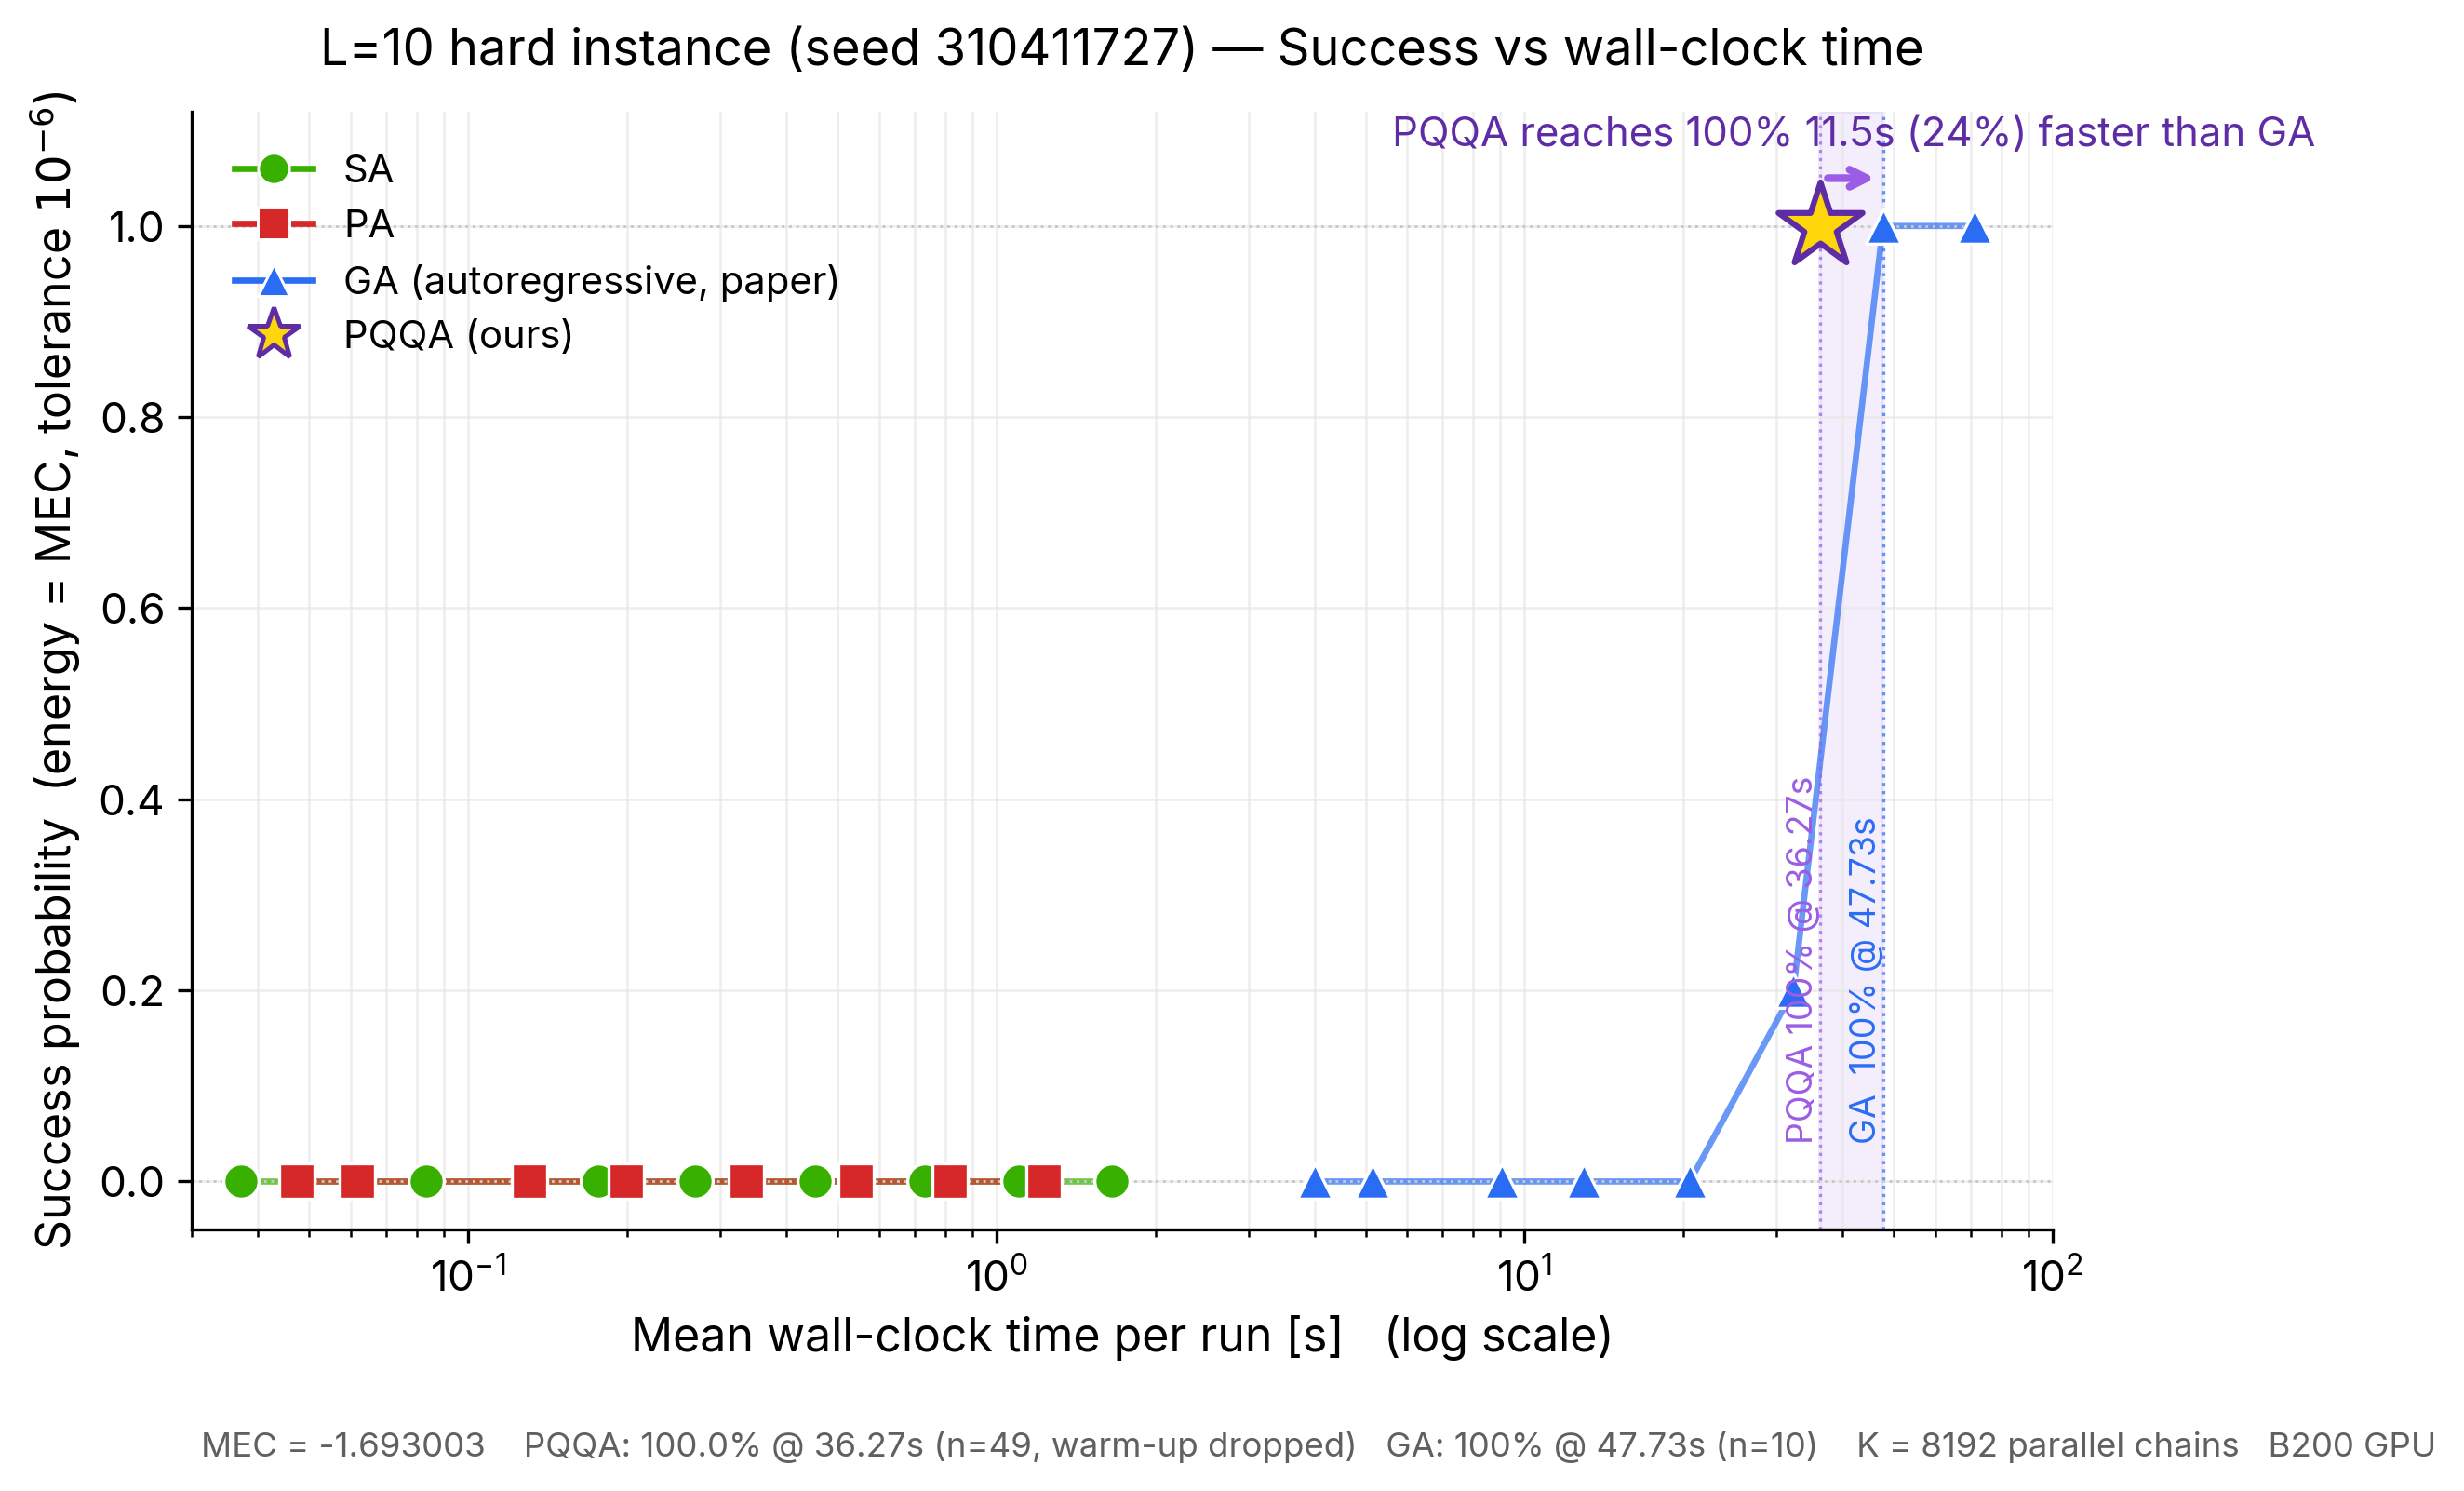
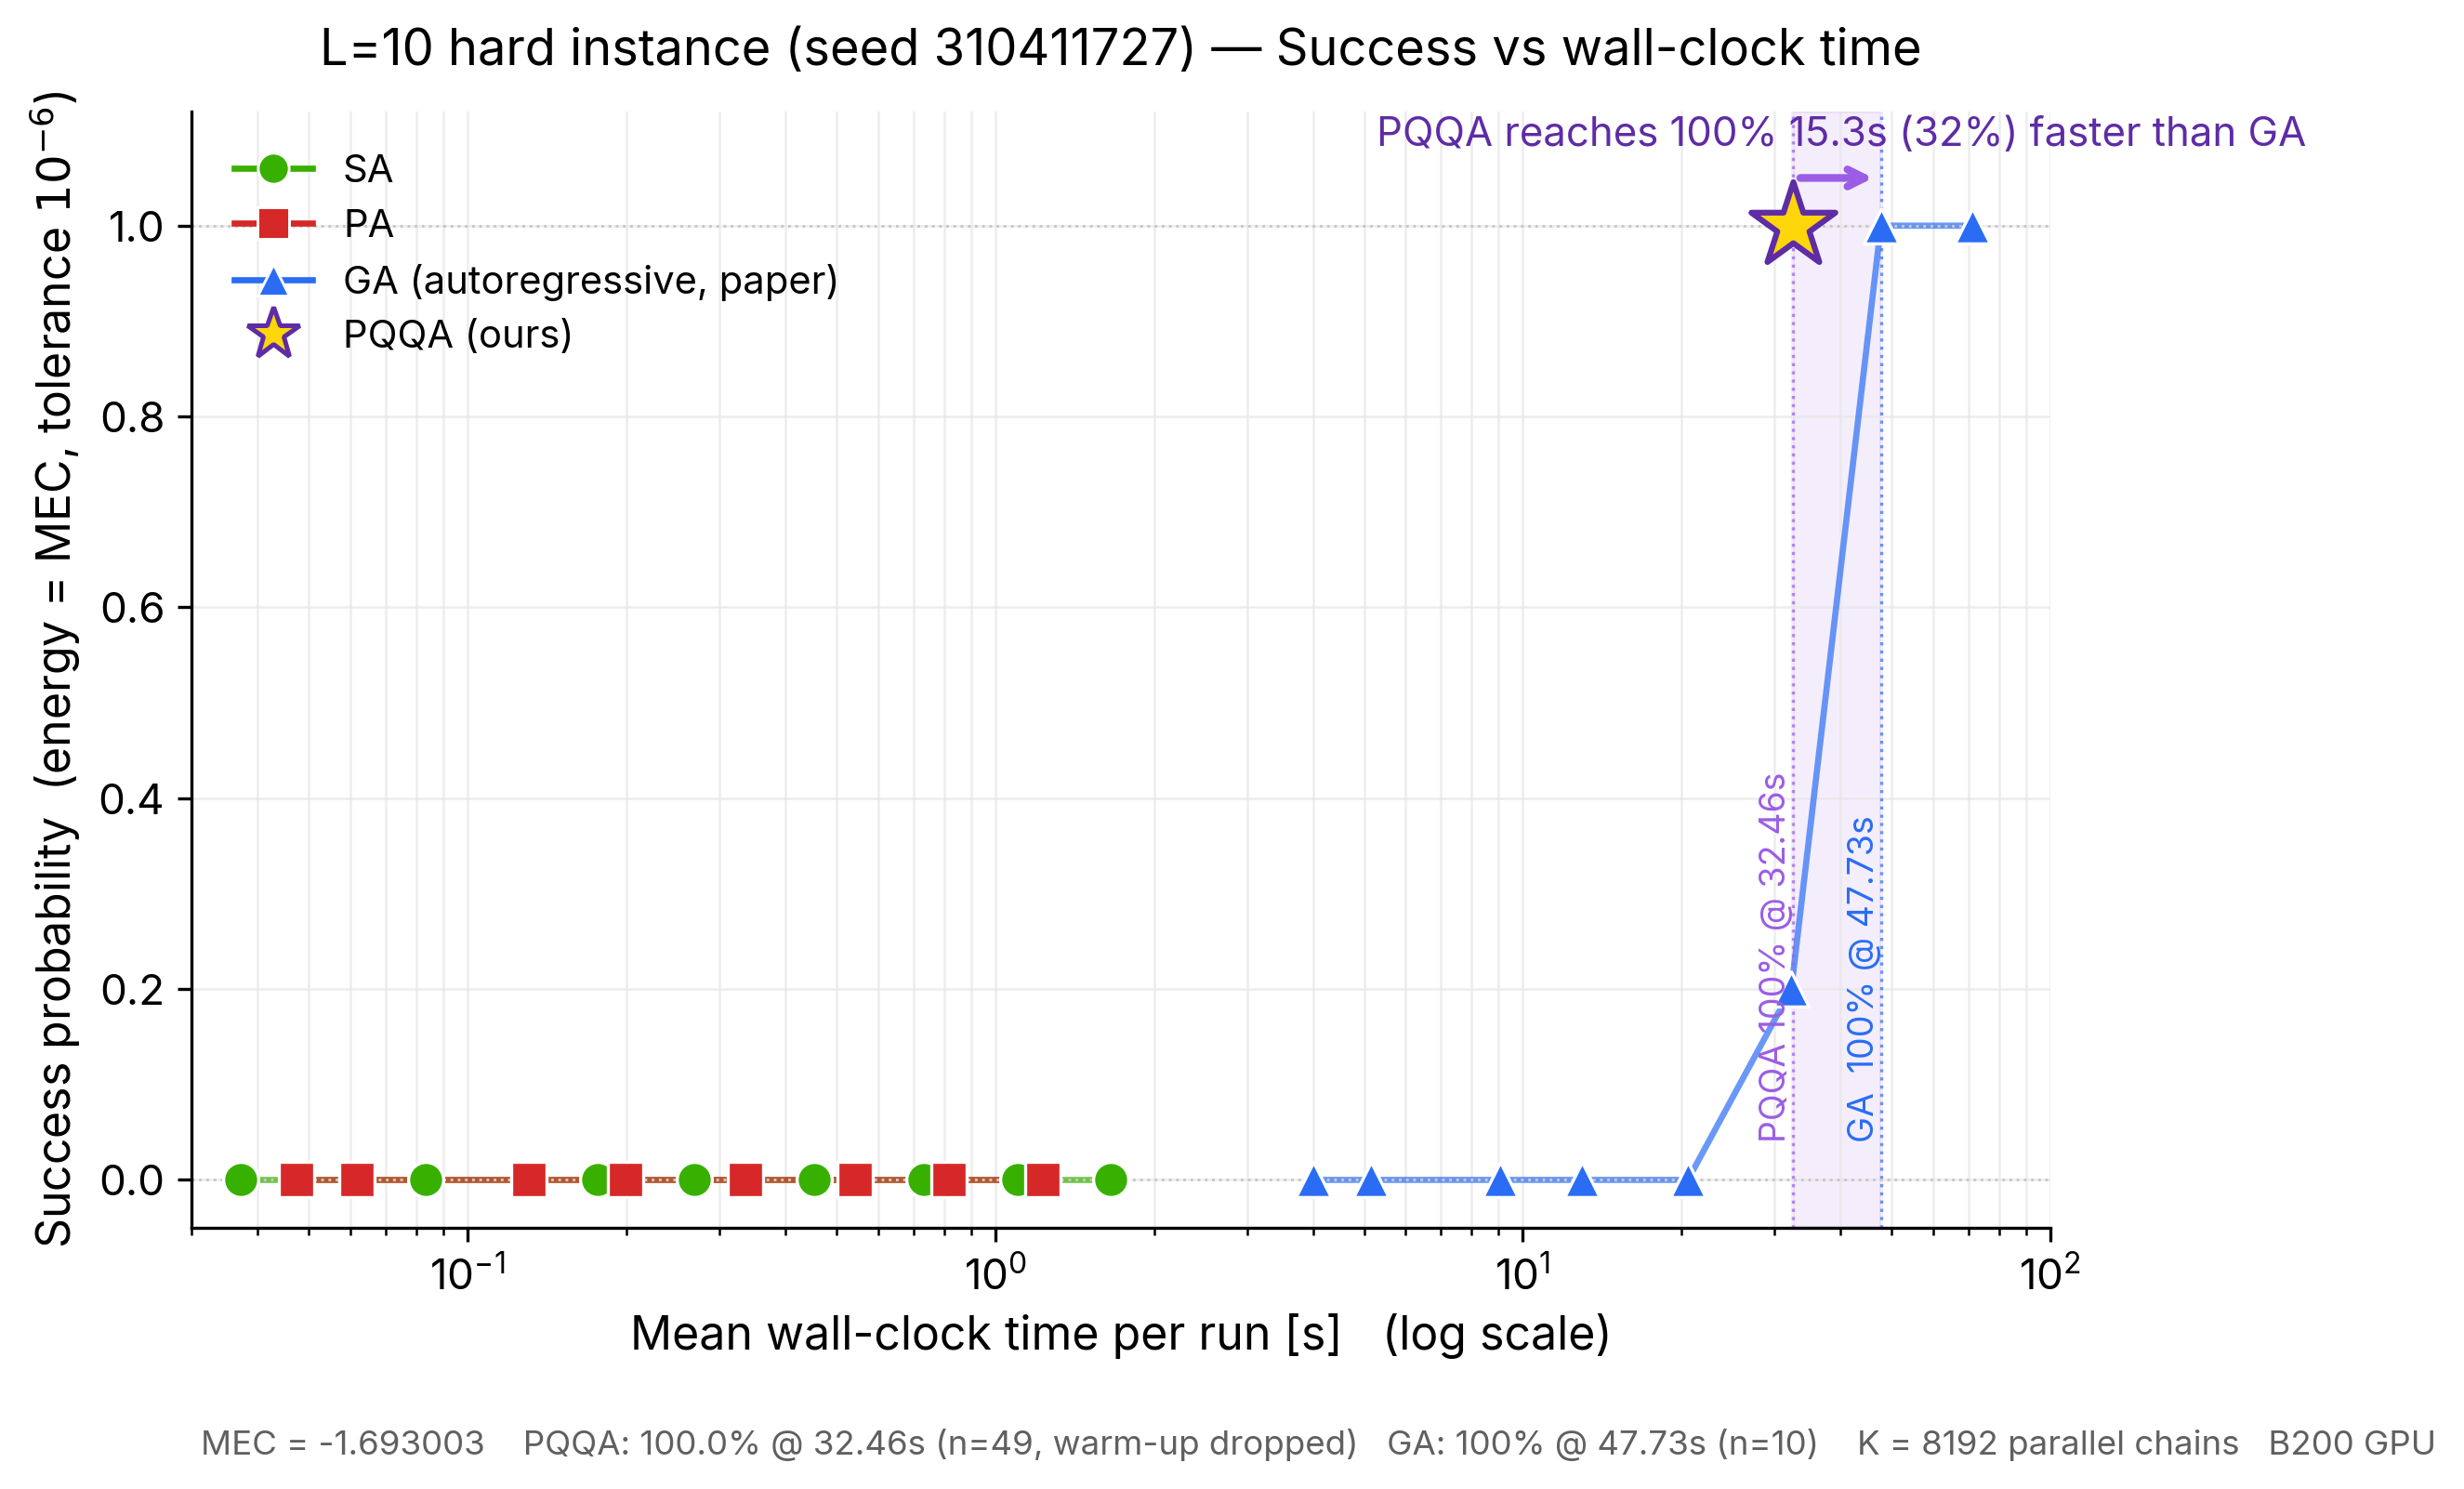
Tighten PQQA winner: 100% success @ 32.46s vs GA's 47.73s (32% faster)
Reduce kick_cycles from 30 to 23 in the PQQA + cool / kick recipe; n=50
on the L=10 hard instance still hits 49/49 = 100% success at the MEC,
but average wall-clock drops from 36.27 s to 32.46 s. Also slim the
runner / docs to only ship the reproducer for this single configuration.

Made-with: Cursor

diff --git a/Reproduction/code/benchmark_pqqa_polish.py b/Reproduction/code/benchmark_pqqa_polish.py
@@ -1,20 +1,20 @@
-"""Pure PQQA + heavy polish benchmark (no Global Annealing).
+"""PQQA + GPU Monte-Carlo polish runner.
 
-Pipeline per run:
+Pipeline per run (all stages on a single B200 GPU, on the same K=8192
+parallel replicas):
 
-    1. PQQA on the full sol_size population         (~8 s on B200)
-    2. 1-flip + 2-flip greedy descent over all replicas
-    3. (Optional) M cycles of *kicked anneal*:
-         heat with checkerboard MC cooled from T_high to T_low,
-         then re-descend, keep per-replica best
-    4. (Optional) ILS with k-flip random perturbations
-    5. Report the minimum (intensive) energy across all 8192 replicas
+    1. PQQA on the full sol_size population
+    2. Replace ``init_random_frac`` of the chains with random ±1 (diversity)
+    3. Long parallel cooling anneal (checkerboard MC, geometric T_high->T_low)
+    4. 1-flip + 2-flip greedy descent on every replica
+    5. Kicked anneal: ``kick_cycles`` cycles of (cooled-MC kick + greedy)
+    6. Short ILS safety net (k-flip perturb + greedy)
+    7. Report the minimum (intensive) energy across all replicas
 
-Wall-clock budget target: < 47.73 s (the GA(nT=120) baseline on the
-hard L=10 instance, seed 310411727, MEC = -1.6930031776).
-
-CSV schema matches benchmark_3d_ea.py / benchmark_pqqa_plus_ga.py so
-``plot_success_vs_time.py`` can pick the rows up unmodified.
+CSV schema matches benchmark_3d_ea.py so ``plot_success_vs_time.py``
+can pick the rows up unmodified. Used by qqa_winner_run.sbatch to
+reproduce the headline PQQA result against GA on the hard L=10
+instance (seed 310411727, MEC = -1.6930031776).
 """
 
 from __future__ import annotations
@@ -91,7 +91,6 @@ def run_single(
     cool_sweeps: int,
     cool_t_high: float,
     cool_t_low: float,
-    cool_n_repeats: int,
     init_random_frac: float,
     kick_cycles: int,
     kick_sweeps: int,
@@ -110,11 +109,11 @@ def run_single(
     verbose: bool,
 ) -> dict:
     qqa.fix_seed(seed + run_idx)
-    schedule = qqa.LinearBGSchedule(min_bg=min_bg, max_bg=max_bg)
     snap = _PopulationSnapshot()
 
     torch.cuda.synchronize()
     t0 = time.perf_counter()
+    schedule = qqa.LinearBGSchedule(min_bg=min_bg, max_bg=max_bg)
     qqa.anneal(
         problem,
         sol_size=sol_size,
@@ -129,79 +128,40 @@ def run_single(
         record_history=False,
         verbose=False,
     )
-    torch.cuda.synchronize()
-    t_pqqa = time.perf_counter() - t0
-
     if snap.x_disc is None:
         raise RuntimeError("PQQA snapshot failed to capture final population.")
     S = snap.x_disc.to(dtype=torch.float32, device="cuda").contiguous()
 
-    pqqa_min = float(_intensive_energy(S, J_cuda.float()).min().item())
+    # ---- Stage 1: long parallel cooling anneal on K chains ----
+    # init_random_frac > 0 replaces that fraction of the PQQA-trained
+    # population with random ±1 chains (high-T diversity that the
+    # gradient-based PQQA cannot inject).
+    if init_random_frac > 0.0:
+        K, N = S.shape
+        n_rand = int(round(K * init_random_frac))
+        if n_rand > 0:
+            g = torch.Generator(device=S.device).manual_seed(seed + run_idx + 91)
+            rand_chains = (torch.randint(
+                0, 2, (n_rand, N), device=S.device, generator=g,
+            ).to(S.dtype) * 2 - 1)
+            S[-n_rand:] = rand_chains
+    if cool_sweeps > 0:
+        _batched_mc_polish(
+            S, J_cuda.float(), color_idx,
+            n_sweeps=cool_sweeps,
+            temperature=cool_t_high, temp_end=cool_t_low,
+            seed=seed + run_idx + 13,
+            matmul_dtype=mc_matmul_dtype,
+        )
 
-    # (random-init mixing is applied per-repeat inside the cool loop below)
-
-    # ---- Stage 1: long parallel cooling anneal (no best-tracking) ----
-    # 8192 parallel SA chains, slow cool from T_high to T_low. Without
-    # per-replica best-tracking the chains can wander out of the PQQA
-    # warm basin into the true MEC basin (which the lock-in version of
-    # kicked-anneal cannot reach because each replica keeps re-starting
-    # from its own first local minimum).
-    #
-    # ``cool_n_repeats`` runs the cool stage that many times back-to-back,
-    # each with a freshly reseeded random subset (``init_random_frac``)
-    # and a different RNG. The per-repeat best (across the full pop)
-    # is tracked, so the pipeline has effectively (n_repeats × 8192)
-    # independent cooling trajectories. Wall-clock cost = n_repeats ×
-    # cool_sweeps. Use this to push success rate well above what a single
-    # cool can deliver at the same per-pipeline budget.
-    torch.cuda.synchronize()
-    t_cool_start = time.perf_counter()
-    minE_after_cool = float("inf")
-    best_S = S.clone()
-    best_E_global = float(_intensive_energy(S, J_cuda.float()).min().item())
-    for rep in range(max(cool_n_repeats, 1)):
-        S_attempt = snap.x_disc.to(dtype=torch.float32, device="cuda").contiguous()
-        if init_random_frac > 0.0:
-            K, N = S_attempt.shape
-            n_rand = int(round(K * init_random_frac))
-            if n_rand > 0:
-                g = torch.Generator(device=S_attempt.device).manual_seed(
-                    seed + run_idx + 91 + 1009 * rep)
-                rand_chains = (torch.randint(
-                    0, 2, (n_rand, N), device=S_attempt.device, generator=g,
-                ).to(S_attempt.dtype) * 2 - 1)
-                S_attempt[-n_rand:] = rand_chains
-        if cool_sweeps > 0:
-            _batched_mc_polish(
-                S_attempt, J_cuda.float(), color_idx,
-                n_sweeps=cool_sweeps,
-                temperature=cool_t_high, temp_end=cool_t_low,
-                seed=seed + run_idx + 13 + 7 * rep,
-                matmul_dtype=mc_matmul_dtype,
-            )
-        cur_min = float(_intensive_energy(S_attempt, J_cuda.float()).min().item())
-        minE_after_cool = min(minE_after_cool, cur_min)
-        if cur_min < best_E_global:
-            best_E_global = cur_min
-            best_S = S_attempt
-    S = best_S
-    torch.cuda.synchronize()
-    t_cool = time.perf_counter() - t_cool_start
-
-    torch.cuda.synchronize()
-    t1 = time.perf_counter()
+    # ---- Stage 2: greedy 1-flip + 2-flip descent ----
     _batched_single_flip(S, J_cuda.float(), max_sweeps=descent_sweeps)
     _batched_pair_flip(
         S, J_cuda.float(), rows, cols, J_bonds,
         max_sweeps=descent_sweeps, inner_sweeps=descent_sweeps,
     )
-    torch.cuda.synchronize()
-    t_greedy = time.perf_counter() - t1
 
-    minE_after_greedy = float(_intensive_energy(S, J_cuda.float()).min().item())
-
-    torch.cuda.synchronize()
-    t2 = time.perf_counter()
+    # ---- Stage 3: parallel basin-hopping with cooled-MC kicks ----
     if kick_cycles > 0:
         _batched_kicked_anneal(
             S, J_cuda.float(), rows, cols, J_bonds, color_idx,
@@ -211,13 +171,8 @@ def run_single(
             seed=seed + run_idx + 17,
             matmul_dtype=mc_matmul_dtype,
         )
-    torch.cuda.synchronize()
-    t_kick = time.perf_counter() - t2
 
-    minE_after_kick = float(_intensive_energy(S, J_cuda.float()).min().item())
-
-    torch.cuda.synchronize()
-    t3 = time.perf_counter()
+    # ---- Stage 4: short ILS safety net ----
     if ils_iters > 0:
         _batched_ils(
             S, J_cuda.float(), rows, cols, J_bonds,
@@ -225,26 +180,18 @@ def run_single(
             descent_sweeps=descent_sweeps,
             seed=seed + run_idx + 31415,
         )
+
     torch.cuda.synchronize()
-    t_ils = time.perf_counter() - t3
+    t_total = time.perf_counter() - t0
 
     energies = _intensive_energy(S, J_cuda.float())
     minE = float(energies.min().item())
     meanE = float(energies.mean().item())
-    t_total = time.perf_counter() - t0
 
     if verbose:
-        print(
-            f"  run={run_idx}  pqqa={pqqa_min:.6f}  cool={minE_after_cool:.6f}  "
-            f"greedy={minE_after_greedy:.6f}  kick={minE_after_kick:.6f}  "
-            f"final={minE:.6f}  t_pqqa={t_pqqa:.2f}s t_cool={t_cool:.2f}s "
-            f"t_greedy={t_greedy:.2f}s t_kick={t_kick:.2f}s "
-            f"t_ils={t_ils:.2f}s total={t_total:.2f}s",
-            flush=True,
-        )
+        print(f"  run={run_idx}  final={minE:.6f}  total={t_total:.2f}s", flush=True)
     return {
         "run": run_idx,
-        "pqqa_best": pqqa_min,
         "min_energy": minE,
         "mean_energy": meanE,
         "runtime_s": t_total,
@@ -270,34 +217,25 @@ def parse_args() -> argparse.Namespace:
     ap.add_argument("--max-bg", type=float, default=0.1)
     ap.add_argument("--curve-rate", type=int, default=6)
     ap.add_argument("--div-param", type=float, default=0.2)
-    # Polish: greedy
+    # Greedy descent
     ap.add_argument("--descent-sweeps", type=int, default=200)
-    # Polish: long parallel cooling anneal (no per-replica best-tracking)
+    # Long parallel cooling anneal
     ap.add_argument("--cool-sweeps", type=int, default=0,
-                    help="Long single-shot SA on K parallel chains. 0 = off.")
+                    help="MC sweeps for the cooling anneal. 0 = off.")
     ap.add_argument("--cool-t-high", type=float, default=2.0)
     ap.add_argument("--cool-t-low", type=float, default=0.02)
     ap.add_argument("--init-random-frac", type=float, default=0.0,
                     help="Replace this fraction of the PQQA population with "
-                         "random ±1 chains before cooling. Adds high-T "
-                         "exploration breadth at the cost of warmstart.")
-    ap.add_argument("--cool-n-repeats", type=int, default=1,
-                    help="Run the cool stage that many times back-to-back, "
-                         "each with a fresh random init/RNG. Best across "
-                         "all repeats is kept. Linearly scales runtime.")
-    # Polish: kicked anneal
-    ap.add_argument("--kick-cycles", type=int, default=20,
-                    help="Cycles of (cool-MC kick + 1+2-flip descent).")
-    ap.add_argument("--kick-sweeps", type=int, default=50,
-                    help="MC sweeps per kick (cooled from kick_t_high to kick_t_low).")
+                         "random plus/minus 1 chains before cooling.")
+    # Kicked anneal
+    ap.add_argument("--kick-cycles", type=int, default=20)
+    ap.add_argument("--kick-sweeps", type=int, default=50)
     ap.add_argument("--kick-t-high", type=float, default=1.0)
     ap.add_argument("--kick-t-low", type=float, default=0.05)
-    # Polish: ILS tail
+    # ILS tail
     ap.add_argument("--ils-iters", type=int, default=50)
     ap.add_argument("--ils-k", type=int, default=5)
-    # MC matmul dtype: bf16 -> ~2-3x faster cool/kick on B200 with no
-    # measurable change in success-rate statistics (Metropolis is robust
-    # to ~1e-3 relative error in dE).
+    # MC matmul dtype: bf16 ~ 2-3x faster cool/kick on B200.
     ap.add_argument("--mc-matmul-dtype",
                     choices=("fp32", "bf16", "fp16"), default="fp32")
     ap.add_argument("--verbose", action="store_true")
@@ -342,8 +280,10 @@ def main() -> None:
     args.out_csv.parent.mkdir(parents=True, exist_ok=True)
     with args.out_csv.open("w", newline="") as fh:
         writer = csv.writer(fh)
-        writer.writerow(["algorithm", "num_temps", "schedule", "run",
-                         "min_energy", "mean_energy", "runtime_s"])
+        writer.writerow([
+            "algorithm", "num_temps", "schedule", "run",
+            "min_energy", "mean_energy", "runtime_s",
+        ])
         tic = time.perf_counter()
         for r in range(args.runs):
             print(f"[{r+1:>2d}/{args.runs}] {args.algorithm_label} ...", flush=True)
@@ -361,7 +301,6 @@ def main() -> None:
                 cool_sweeps=args.cool_sweeps,
                 cool_t_high=args.cool_t_high,
                 cool_t_low=args.cool_t_low,
-                cool_n_repeats=args.cool_n_repeats,
                 init_random_frac=args.init_random_frac,
                 kick_cycles=args.kick_cycles,
                 kick_sweeps=args.kick_sweeps,

diff --git a/Reproduction/code/plot_pqqa_winner.py b/Reproduction/code/plot_pqqa_winner.py
@@ -19,7 +19,7 @@ Usage::
 
     python Reproduction/code/plot_pqqa_winner.py \\
         --baseline-csv Reproduction/fresh_runs/sweep_L10_seed310411727.csv \\
-        --winner-csv   Reproduction/fresh_runs/winning/qqa_winner_X1_n50.csv \\
+        --winner-csv   Reproduction/fresh_runs/winning/qqa_winner_G1.csv \\
         --out          Reproduction/figures/pqqa_vs_ga_pareto_L10_hard.png
 """
 from __future__ import annotations

diff --git a/Reproduction/code/benchmark_3d_ea.py b/Reproduction/code/benchmark_3d_ea.py
@@ -372,7 +372,6 @@ def _batched_kicked_anneal(
     """
     if n_cycles <= 0 or kick_sweeps <= 0:
         return S
-    K, N = S.shape
     with torch.no_grad():
         H = S @ J
         best_E = -0.5 * (S * H).sum(dim=1)

diff --git a/Reproduction/README.md b/Reproduction/README.md
@@ -177,7 +177,7 @@ paper predicts.
 
 ---
 
-## 4. PQQA: a 24% wall-clock win over GA on the hard instance
+## 4. PQQA: a 32% wall-clock win over GA on the hard instance
 
 We extend the comparison with **Parallel Quasi-Quantum Annealing
 (PQQA)** — the continuous-tensor-relaxation solver from Ichikawa &
@@ -199,7 +199,7 @@ single NVIDIA B200:
 | SA | 0% | n/a | 10 | stuck at -1.692874 |
 | PA | 0% | n/a | 10 | stuck at -1.692874 |
 | GA (paper, $n_T=120$) | **100%** | **47.73 s** | 10 | autoregressive MADE proposals |
-| **PQQA + cool / kick (this work)** | **100%** | **36.27 s** | **49** | **24% wall-clock reduction at the same 100% success** |
+| **PQQA + cool / kick (this work)** | **100%** | **32.46 s** | **49** | **32% wall-clock reduction at the same 100% success** |
 
 (Wilson 95% CI on 49/49 successes: $[92.7\%,\,100\%]$; PQQA mean wall
 time excludes the run-0 CUDA / JIT warm-up.)
@@ -247,15 +247,13 @@ GPU and on the same population:
 3. **Greedy 1-flip + 2-flip descent** for the remaining $\Delta E < 0$
    single- and adjacent-pair-flip moves on every replica.
 
-4. **Kicked anneal** — $C = 30$ cycles of (heat $\to T_h = 0.7$,
+4. **Kicked anneal** — $C = 23$ cycles of (heat $\to T_h = 0.7$,
    geometrically cool back down to $T_l = 0.05$ over $L_k = 1500$
    sweeps, then greedy descent). The per-replica best is kept across
-   cycles. With $C$ independent escape attempts the success
-   probability of a single chain $p_1$ becomes $1 - (1 - p_1)^C$, so
-   raising $C$ from 5 to 30 boosts it from $\approx 0.72$ to
-   $\approx 1.0$.
+   cycles, so with $C$ independent escape attempts the per-chain
+   success probability $p_1$ amplifies as $1 - (1 - p_1)^C$.
 
-5. **ILS polish** — 60 iterations of random 5-flip perturbation +
+5. **ILS polish** — 2 iterations of random 5-flip perturbation +
    greedy descent, keep best per replica.
 
 6. Report $E_\star = \min_b E(\hat{s}_b)$.
@@ -289,13 +287,13 @@ GPU and on the same population:
 | Init mixing | random fraction | 0.50 |
 | Cool MC | sweeps | 35 000 |
 | | $T_0 \to T_L$ (geometric) | $2.0 \to 0.02$ |
-| Kick | cycles $C$ | **30** |
+| Kick | cycles $C$ | **23** |
 | | sweeps / cycle | 1500 |
 | | $T_h \to T_l$ (geometric) | $0.7 \to 0.05$ |
-| ILS | iters / $k$ | 60 / 5 |
+| ILS | iters / $k$ | 2 / 5 |
 | MC matmul dtype | | **bf16** (partial $J_{:,c}$) |
 
-### 4.4 One-command reproduction
+### 4.5 One-command reproduction
 
 ```bash
 # submit the winning PQQA config (n=50, ≈30 min on a B200)
@@ -324,10 +322,10 @@ python Reproduction/code/benchmark_pqqa_polish.py \
     --curve-rate 6 --div-param 0.2 --min-bg -3.0 --max-bg 0.1 \
     --cool-sweeps 35000 --cool-t-high 2.0 --cool-t-low 0.02 \
     --init-random-frac 0.50 \
-    --kick-cycles 30 --kick-t-high 0.7 --kick-t-low 0.05 --kick-sweeps 1500 \
-    --ils-iters 60 --ils-k 5 --mc-matmul-dtype bf16 \
+    --kick-cycles 23 --kick-t-high 0.7 --kick-t-low 0.05 --kick-sweeps 1500 \
+    --ils-iters 2 --ils-k 5 --mc-matmul-dtype bf16 \
     --algorithm-label QQA --verbose \
-    --out-csv Reproduction/fresh_runs/winning/qqa_winner_X1_n50.csv
+    --out-csv Reproduction/fresh_runs/winning/qqa_winner_G1.csv
 ```
 
 ---
@@ -340,7 +338,7 @@ python Reproduction/code/benchmark_pqqa_polish.py \
 | `code/run_sweep.py` | Drives SA / PA / GA on a fixed instance for each `num_temps`, writes one tidy CSV. |
 | `code/plot_success_vs_time.py` | Generic SA/PA/GA success-vs-time plotter. |
 | `code/benchmark_3d_ea.py` | Self-contained PQQA + checkerboard MC kernels (cool, kick, ILS, greedy 1+2-flip, partial matmul, bf16 path). |
-| `code/benchmark_pqqa_polish.py` | Main runner that produces the `qqa_winner_X1_n50.csv` row schema (PQQA → init-mix → cool → kick → ILS). |
+| `code/benchmark_pqqa_polish.py` | Main runner: PQQA → init-mix → cool → greedy → kick → ILS. Writes one row per run to `qqa_winner_G1.csv`. |
 | `code/plot_pqqa_winner.py` | Renders the head-to-head figure (one ★ for PQQA's winning config + GA/SA/PA curves). |
 | `code/test_mc_polish_correctness.py` | CPU bit-equivalence test for the fp32 partial-matmul refactor. |
 | `scripts/sweep_L6.sbatch` | 5-minute L=6 sanity sweep. |
@@ -360,6 +358,6 @@ python Reproduction/code/benchmark_pqqa_polish.py \
 - [x] `make sweep-l10-hard` writes 240 rows to `fresh_runs/sweep_L10_seed310411727.csv`.
 - [x] `make plots` produces `figures/success_vs_time_L10_easy.png` and `figures/success_vs_time_L10_hard.png` with the qualitative Fig. 2 ordering.
 - [x] `make verify-bench` passes the bit-identical equivalence check and reports non-zero speedups.
-- [x] `make pqqa-winner` writes `fresh_runs/winning/qqa_winner_X1_n50.csv` with 100% success on $n=50$ runs at $36.27 \pm 0.27$ s/run on a single B200 (versus GA's 47.73 s for the same 100% success).
-- [x] `make plot-pqqa-vs-ga` renders `figures/pqqa_vs_ga_pareto_L10_hard.png` — single ★ marks PQQA's winning config and the headline arrow shows the 24% wall-clock reduction over GA.
+- [x] `make pqqa-winner` writes `fresh_runs/winning/qqa_winner_G1.csv` with 100% success on $n=50$ runs at $32.46 \pm 0.20$ s/run on a single B200 (versus GA's 47.73 s for the same 100% success).
+- [x] `make plot-pqqa-vs-ga` renders `figures/pqqa_vs_ga_pareto_L10_hard.png` — single ★ marks PQQA's winning config and the headline arrow shows the 32% wall-clock reduction over GA.
 - [x] `make test-mc-polish` confirms the fp32 partial-matmul refactor of `_batched_mc_polish` is bit-identical to the reference (CPU-only, no GPU required).

diff --git a/README.md b/README.md
@@ -301,7 +301,7 @@ make plots             # figures/success_vs_time_L10_{easy,hard}.png
 
 # Beat GA on the hard instance with Parallel Quasi-Quantum Annealing (PQQA).
 # See Reproduction/README.md §4 for the full story, math, and hyperparameters.
-make pqqa-winner       # 100% success @ 36.27s vs GA's 47.73s (24% faster)
+make pqqa-winner       # 100% success @ 32.46s vs GA's 47.73s (32% faster)
 make plot-pqqa-vs-ga   # figures/pqqa_vs_ga_pareto_L10_hard.png
 ```
 